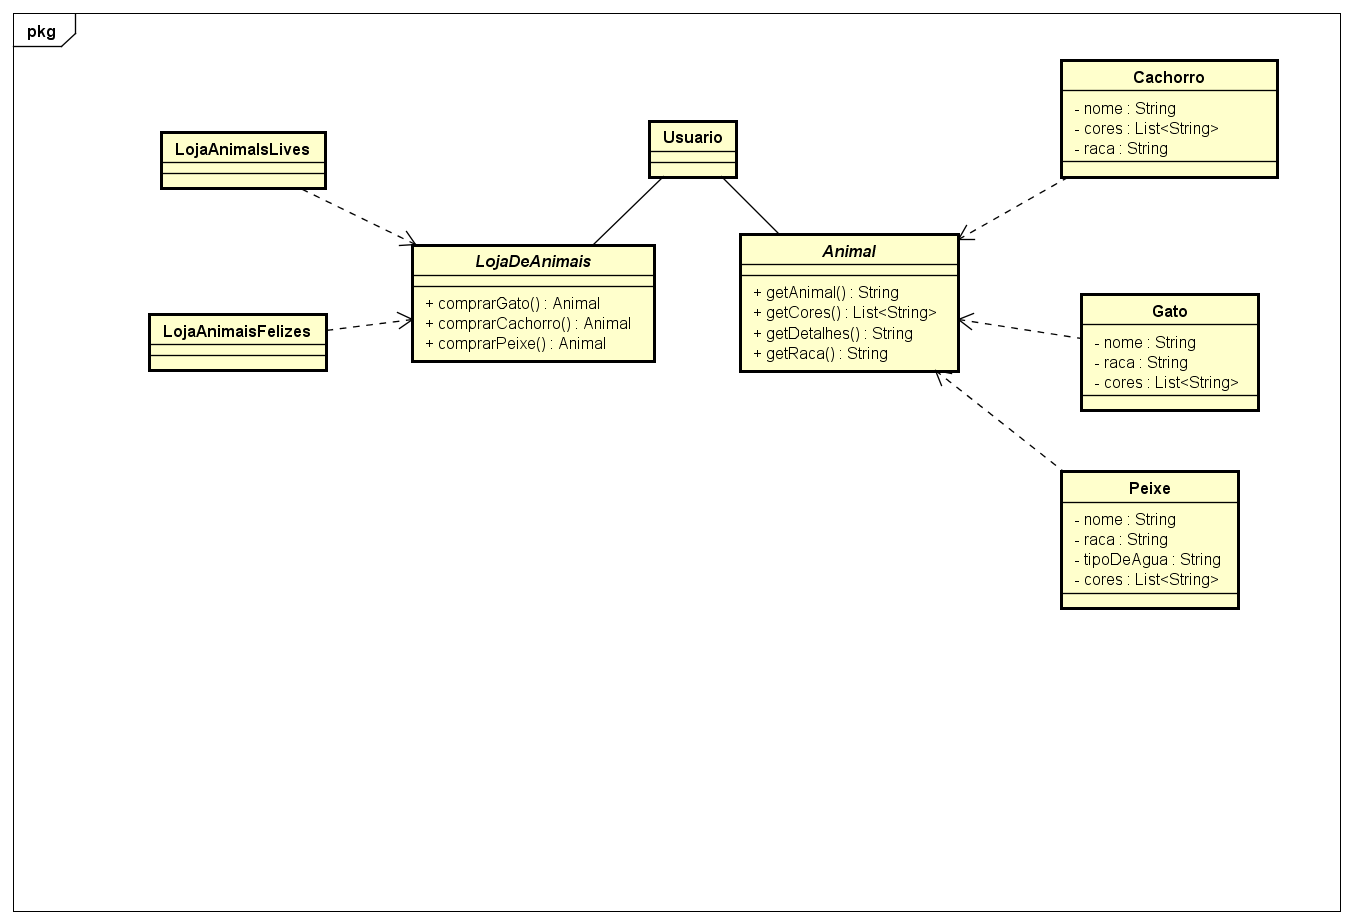
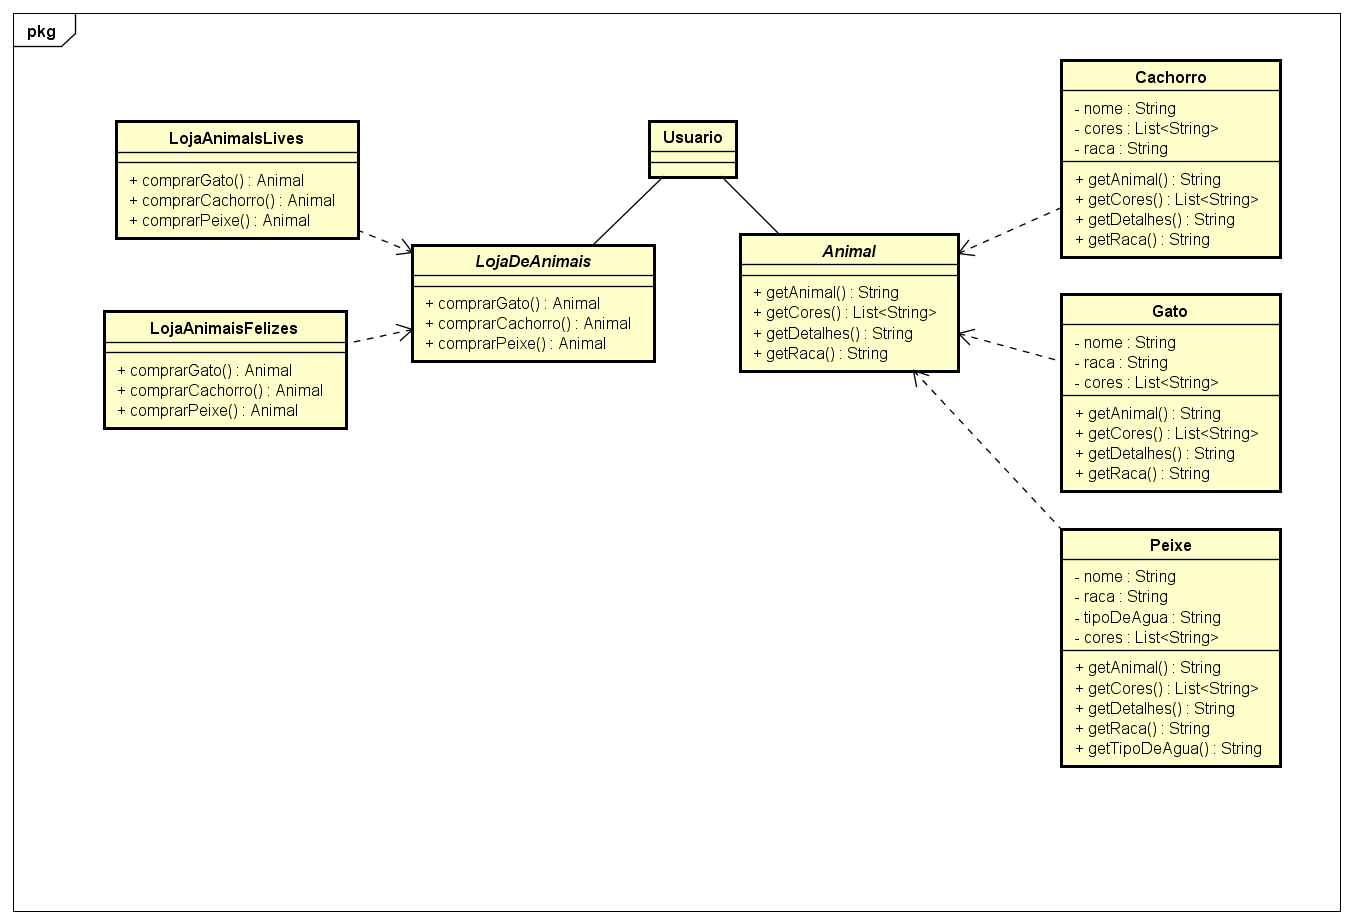
att classDiagram + getTipoDeAgua(on class Peixe)

diff --git a/src/animais/Peixe.java b/src/animais/Peixe.java
@@ -43,6 +43,10 @@ public class Peixe implements Animal{
         return "Peixe";
     }
     
+    public String getTipoDeAgua(){
+        return this.tipoDeAgua;
+    }
+    
     @Override
     public String getDetalhes(){
         
